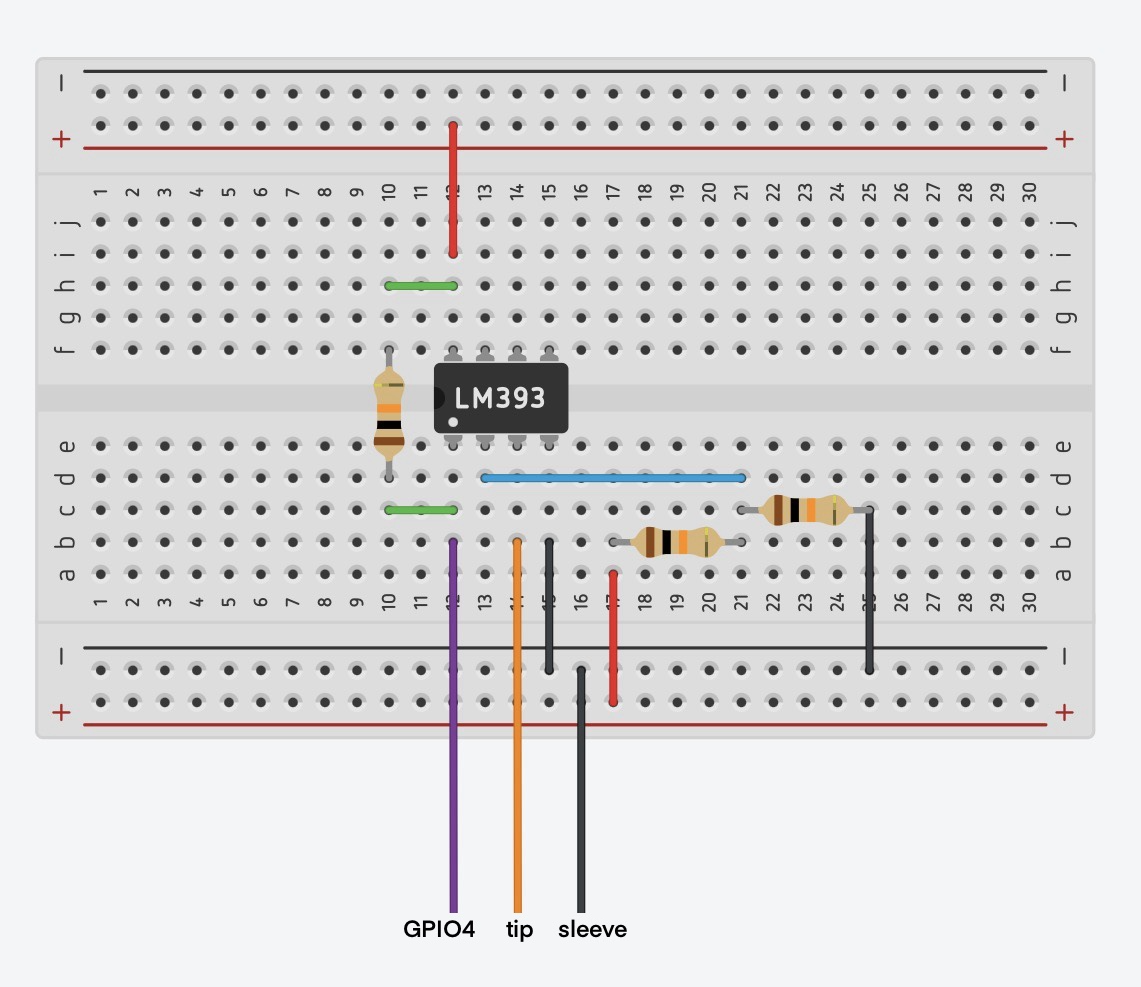
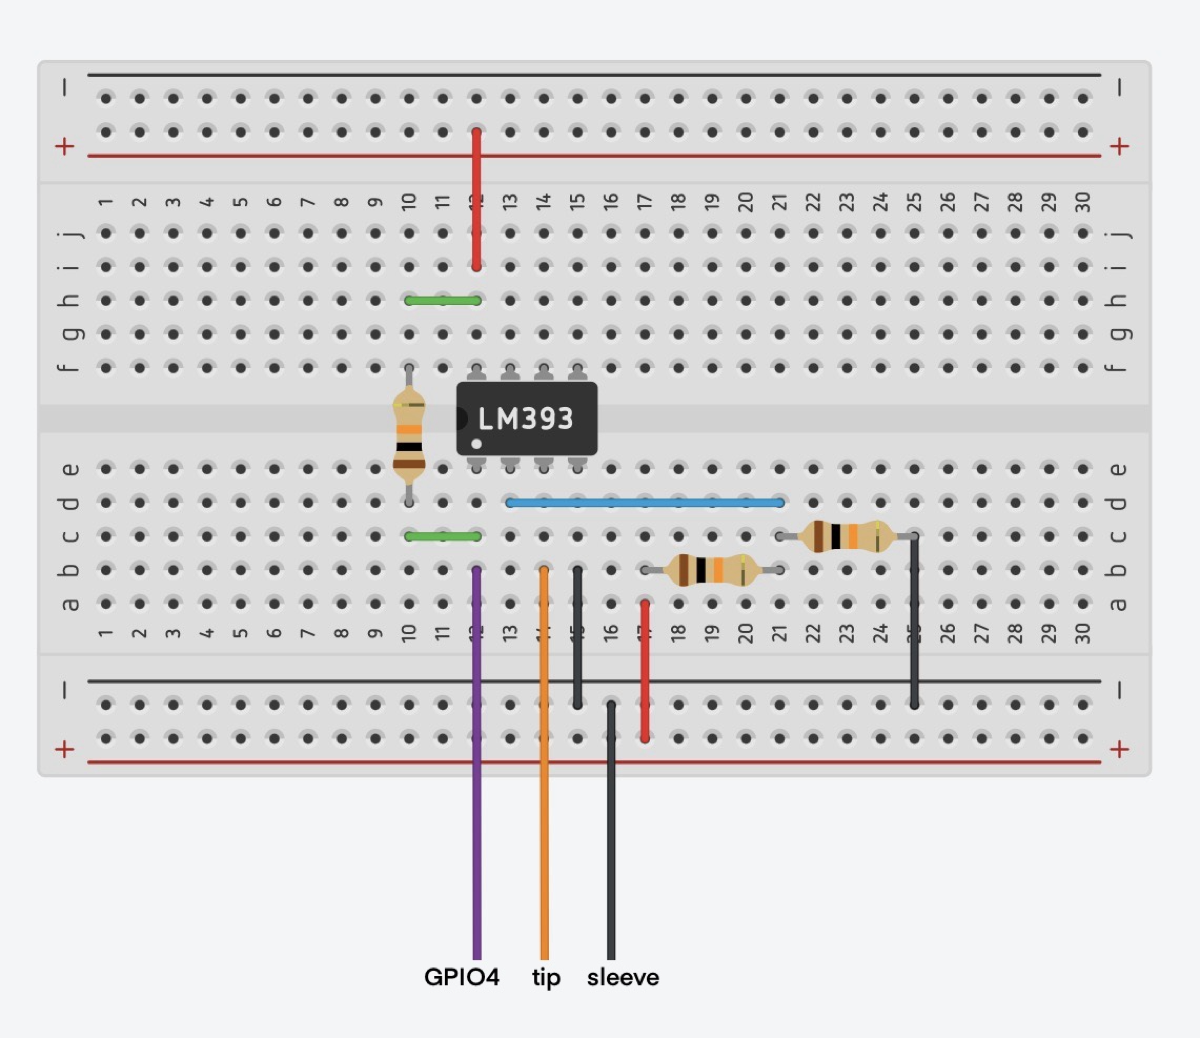
Update images in README files and enhance descriptions for clarity

Changed region(s): [[0.4908, 0.9422, 0.5215, 0.9726], [0.4601, 0.6383, 0.4908, 0.6687], [0.3681, 0.9119, 0.3988, 0.9422]]

diff --git a/README.md b/README.md
@@ -35,9 +35,9 @@ With this project, you can bridge any standard non-Bluetooth Stackmat timer to *
 
 ## 🔌 Wiring Diagram
 
-![Wiring Diagram](./hardware/Wiring/Wiringconnection.png)
+<img src="./hardware/Wiring/Wiringconnection.png" width="600" alt="Wiring Diagram">
 
-*Breadboard wiring reference for LM393 and ESP32-S3.*
+**Breadboard wiring reference for LM393 and ESP32-S3.**
 
 | Component | ESP32-S3 Pin | Description |
 | :--- | :--- | :--- |
@@ -62,12 +62,14 @@ Since the timer outputs a weak analog audio signal (sine-ish wave) with noise:
 ## 🔩 Hardware Resources
 
 ### Case Design
-![Case Render](./hardware/Case/caes-render.jpg)
-*Exploded view of the 3D printed case and internal assembly.*
+<img src="./hardware/Case/caes-render.jpg" width="600" alt="Case Render">
+
+**Exploded view of the 3D printed case and internal assembly.**
 
 ### PCB Layout
-![PCB Preview](./hardware/PCB/PCB.png)
-*Top view of the custom PCB design.*
+<img src="./hardware/PCB/PCB.png" width="600" alt="PCB Preview">
+
+**Top view of the custom PCB design.**
 
 You can find all design files in the `hardware/` directory:
 
@@ -78,7 +80,7 @@ You can find all design files in the `hardware/` directory:
     - `stackmatlinkcaseprint final-case.001.stl`, `.002.stl`: Ready-to-print STL files.
     - `stackmatlinkcaseprint final.blend`: Original Blender source file.
 - **Wiring Guide** (`hardware/Wiring/`):
-    - `Wiringconnection.jpeg`: Visual diagram for circuit connections.
+    - `Wiringconnection.png`: Visual diagram for circuit connections.
 
 ### 📋 PCB BOM List
 If you plan to manufacture the custom PCB using the Gerber files in `hardware/PCB/`, you will need:

diff --git a/README_ZH.md b/README_ZH.md
@@ -36,9 +36,9 @@
 
 ## 🔌 电路连接 (Wiring)
 
-![电路连接图](./hardware/Wiring/Wiringconnection.png)
+<img src="./hardware/Wiring/Wiringconnection.png" width="600" alt="电路连接图">
 
-*LM393 与 ESP32-S3 的面包板接线参考图。*
+**LM393 与 ESP32-S3 的面包板接线参考图。**
 
 | 组件 | ESP32-S3 引脚 | 说明 |
 | :--- | :--- | :--- |
@@ -61,12 +61,14 @@
 ## 🔩 硬件资源 (Hardware Resources)
 
 ### 外壳设计 (Case Design)
-![外壳渲染图](./hardware/Case/caes-render.jpg)
-*3D 打印外壳与内部组件的爆炸分解图。*
+<img src="./hardware/Case/caes-render.jpg" width="600" alt="外壳渲染图">
+
+**3D 打印外壳与内部组件的爆炸分解图。**
 
 ### PCB 布局 (PCB Layout)
-![PCB 预览图](./hardware/PCB/PCB.png)
-*定制 PCB 设计的顶层视图。*
+<img src="./hardware/PCB/PCB.png" width="600" alt="PCB 预览图">
+
+**定制 PCB 设计的顶层视图。**
 
 在 `hardware/` 目录下可以找到所有设计文件：
 
@@ -77,7 +79,7 @@
     - `stackmatlinkcaseprint final-case.001.stl`, `.002.stl`: 导出好的 3D 打印模型。
     - `stackmatlinkcaseprint final.blend`: 外壳的 Blender 源文件。
 - **接线参考** (`hardware/Wiring/`)：
-    - `Wiringconnection.jpeg`: 详细的电路连接示意图。
+    - `Wiringconnection.png`: 详细的电路连接示意图。
 
 ### 📋 PCB BOM 清单
 如果您打算使用 `hardware/PCB/` 下的 Gerber 文件打样，您将需要以下核心组件：